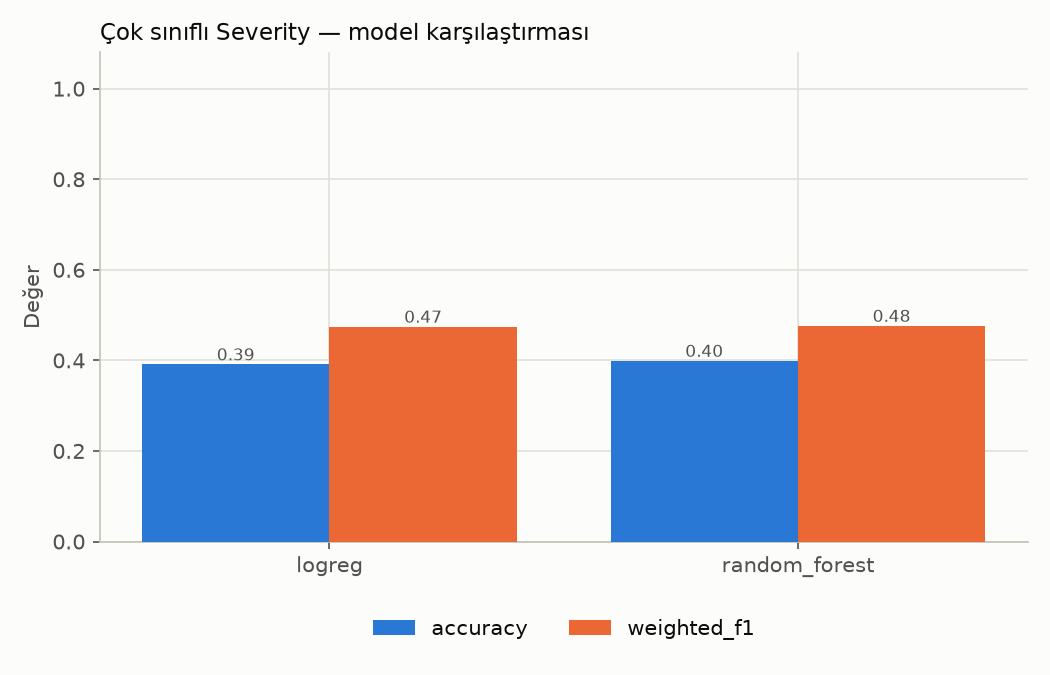
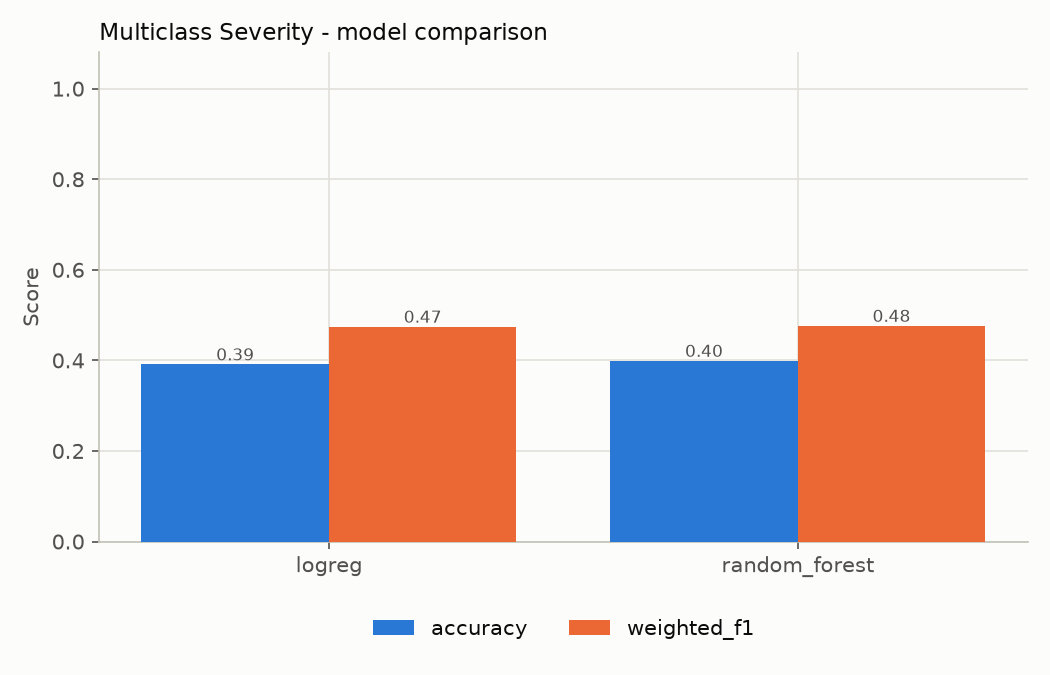
Figur etiketlerini ingilizceye cevir + confusion matrix grid duzeltmesi

diff --git a/src/viz/make_figures.py b/src/viz/make_figures.py
@@ -72,8 +72,8 @@ def severity_distribution():
         ax.text(b.get_x() + b.get_width() / 2, b.get_height(), f"{c/total:.1%}",
                  ha="center", va="bottom", fontsize=9, color=INK_SECONDARY)
     ax.set_xlabel("Severity")
-    ax.set_ylabel("Kaza sayısı")
-    ax.set_title("Severity dağılımı (n=7.728.394)", color=INK_PRIMARY, fontsize=11, loc="left")
+    ax.set_ylabel("Number of accidents")
+    ax.set_title("Severity distribution (n=7,728,394)", color=INK_PRIMARY, fontsize=11, loc="left")
     _clean_axes(ax)
     fig.tight_layout()
     fig.savefig(FIGURES / "severity_distribution.png", dpi=150)
@@ -92,9 +92,9 @@ def hourly_high_risk_rate():
     rush = df[df["hour"].isin([7, 8, 9, 16, 17, 18])]
     ax.scatter(rush["hour"], rush["high_risk_rate"], color=ORANGE, s=32, zorder=5,
                label="Rush hour (07-09, 16-18)")
-    ax.set_xlabel("Saat")
-    ax.set_ylabel("Yüksek-şiddet oranı (Severity ≥ 3)")
-    ax.set_title("Saate göre yüksek-şiddet oranı", color=INK_PRIMARY, fontsize=11, loc="left")
+    ax.set_xlabel("Hour of day")
+    ax.set_ylabel("High-risk rate (Severity >= 3)")
+    ax.set_title("High-risk rate by hour of day", color=INK_PRIMARY, fontsize=11, loc="left")
     ax.set_xticks(range(0, 24, 2))
     ax.legend(frameon=False, loc="lower left")
     _clean_axes(ax)
@@ -111,9 +111,9 @@ def model_comparison():
 
     for task, metrics_wanted, fname, title in [
         ("severity", ["accuracy", "weighted_f1"], "model_comparison_severity.png",
-         "Çok sınıflı Severity — model karşılaştırması"),
+         "Multiclass Severity - model comparison"),
         ("high_risk", ["weighted_f1", "roc_auc", "high_risk_recall"], "model_comparison_high_risk.png",
-         "İkili high-risk — model karşılaştırması"),
+         "Binary high-risk - model comparison"),
     ]:
         sub = df[(df["task"] == task) & (df["metric"].isin(metrics_wanted))]
         if sub.empty:
@@ -135,7 +135,7 @@ def model_comparison():
         ax.set_xticks(list(x))
         ax.set_xticklabels(pivot.index)
         ax.set_ylim(0, 1.08)
-        ax.set_ylabel("Değer")
+        ax.set_ylabel("Score")
         ax.set_title(title, color=INK_PRIMARY, fontsize=11, loc="left")
         ax.legend(frameon=False, loc="upper center", bbox_to_anchor=(0.5, -0.12), ncol=n_metrics)
         _clean_axes(ax)
@@ -159,14 +159,15 @@ def confusion_matrix_best():
     mat_norm = [[v / sum(row) if sum(row) else 0 for v in row] for row in mat]
 
     fig, ax = plt.subplots(figsize=(4.5, 4))
+    ax.grid(False)  # ısı haritasında grid hücrelerin üstüne biner
     im = ax.imshow(mat_norm, cmap="Blues", vmin=0, vmax=1)
     ax.set_xticks(range(len(labels)))
     ax.set_yticks(range(len(labels)))
     ax.set_xticklabels(["low-risk (0)", "high-risk (1)"] if labels == ["0", "1"] else labels)
     ax.set_yticklabels(["low-risk (0)", "high-risk (1)"] if labels == ["0", "1"] else labels)
-    ax.set_xlabel("Tahmin")
-    ax.set_ylabel("Gerçek")
-    ax.set_title(f"Karışıklık matrisi — {model} (high_risk)", color=INK_PRIMARY, fontsize=11, loc="left")
+    ax.set_xlabel("Predicted")
+    ax.set_ylabel("Actual")
+    ax.set_title(f"Confusion matrix - {model} (high_risk)", color=INK_PRIMARY, fontsize=11, loc="left")
     for i, row in enumerate(mat):
         for j, v in enumerate(row):
             frac = mat_norm[i][j]
@@ -195,8 +196,8 @@ def feature_importance():
 
     fig, ax = plt.subplots(figsize=(7, 4.5))
     ax.barh(names, vals, color=BLUE, zorder=3)
-    ax.set_xlabel("Önem (featureImportances)")
-    ax.set_title(f"Öznitelik önemi — {model} (high_risk, top 10)", color=INK_PRIMARY, fontsize=11, loc="left")
+    ax.set_xlabel("Importance (featureImportances)")
+    ax.set_title(f"Feature importance - {model} (high_risk, top 10)", color=INK_PRIMARY, fontsize=11, loc="left")
     _clean_axes(ax)
     ax.grid(axis="x", zorder=0)
     ax.grid(axis="y", visible=False)
